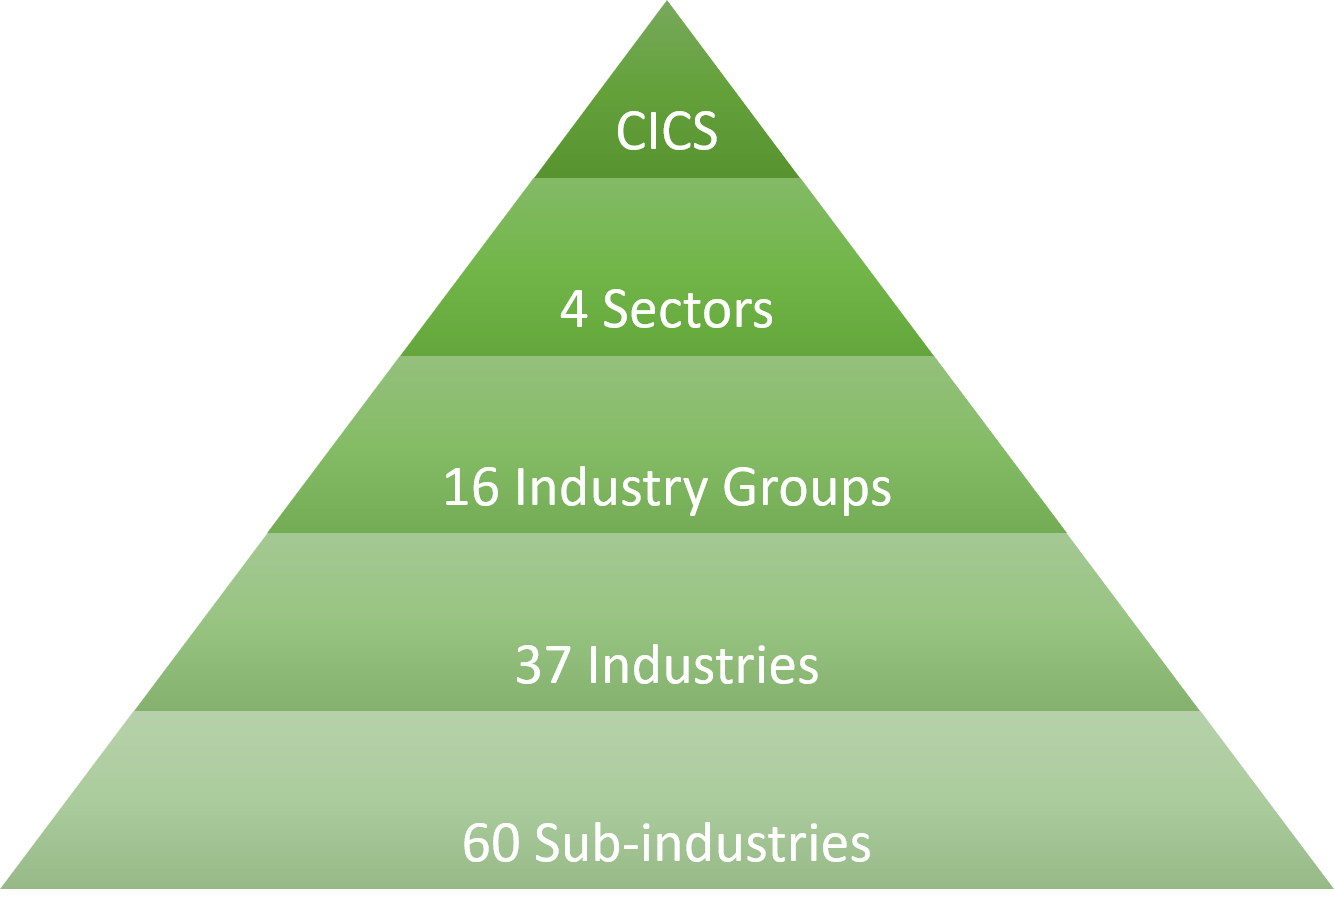
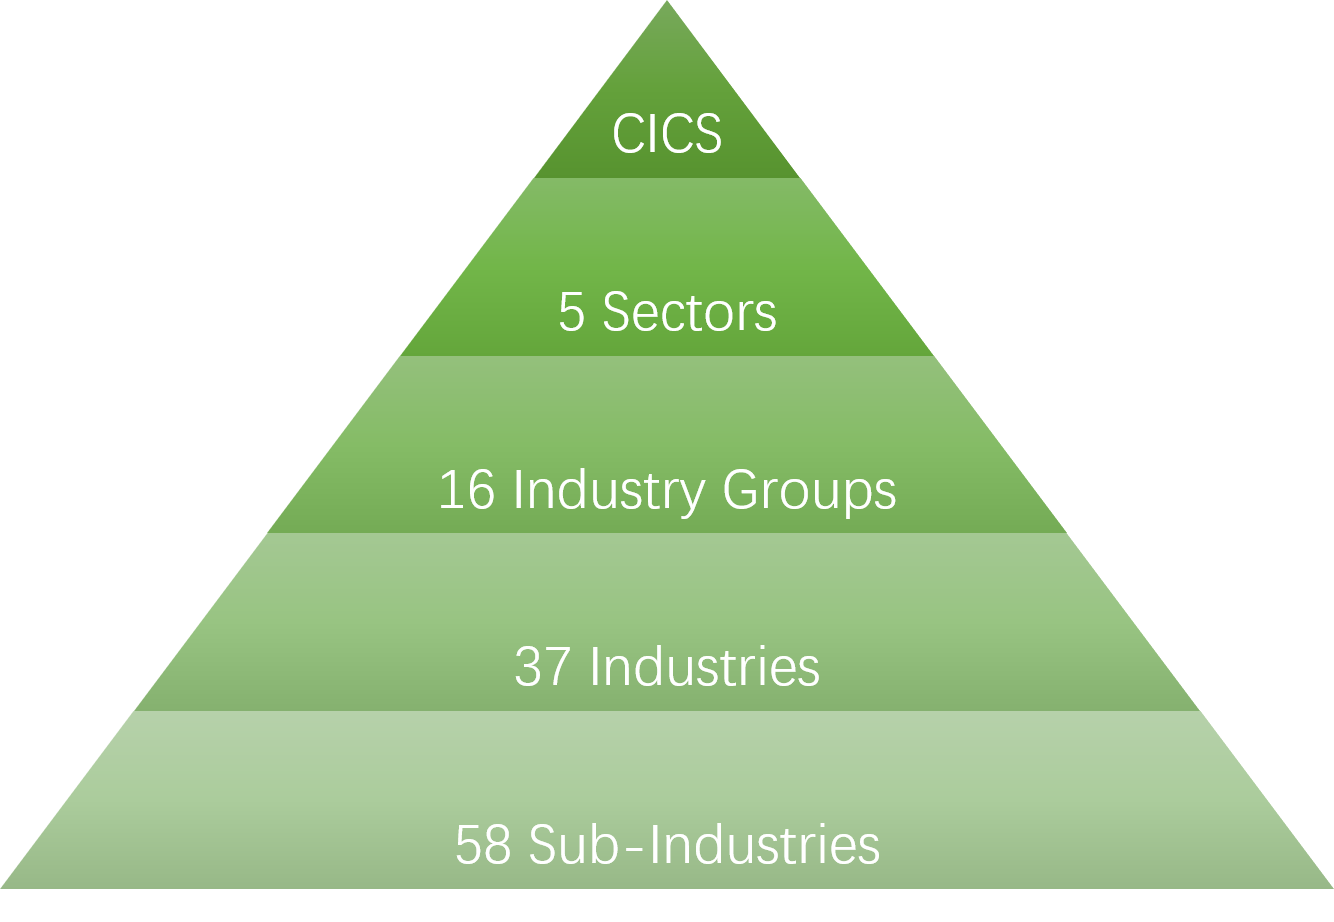
GitBook: [#129] No subject

diff --git a/sub-industry-definitions/identity-and-social-relationship-sector/identity-industry-group.md b/sub-industry-definitions/identity-and-social-relationship-sector/identity-industry-group.md
@@ -10,13 +10,13 @@ The Decentralized Identity Industry comprises companies, organizations, and proj
 
 ### Decentralized Identity (Sub-Industry)
 
-Companies, organizations, and projects engaged in providing technologies and products of decentralized identity.
+Companies, organizations, and projects engaged in providing technologies and products of decentralized identity, including DID protocols and tools.
 
-> Decentralized identity is a self-owned, independent identity that enables trusted data exchange.  Decentralized identity allows people to generate, manage and control their personally identifiable information without a centralized third party like a registry, identity provider or certification authority.
+> Decentralized identity is a self-owned, independent identity that enables trusted data exchange.  It allows people to generate, manage and control their personally identifiable information without a centralized third party like a registry, identity provider or certification authority.
 
 ### Diversified Decentralized Identity Services (Sub-Industry)
 
-def
+Providers of services relating to decentralized identity, including DID platform operations.
 
 
 
@@ -28,7 +28,11 @@ The Digital Identity Industry comprises companies, organizations, and projects e
 
 ### Digital Identity (Sub-Industry)
 
-def
+Companies, organizations, and projects engaged in developing digital identity technologies, delivering products, and providing services based on digital identity technologies.
+
+> A digital identity is _information used by computer systems to represent an external agent – a person, organization, application, or device_.
+
+
 
 
 
@@ -38,11 +42,13 @@ The Reputation Industry comprises companies, organizations, and projects engaged
 
 ### Reputation Services (Sub-Industry)
 
-def
+Companies, organizations, and projects engaged in delivering products and providing services about reputation in the crypto universe.
 
 ### Credit Services (Sub-Industry)
 
-def
+Companies, organizations, and projects engaged in delivering products and providing services about credits in the crypto universe that is related to reputation.
+
+
 
 
 
@@ -52,8 +58,8 @@ The Diversified Identity Services comprises companies, organizations, and projec
 
 ### Identity Analysis Services (Sub-Industry)
 
-def
+Companies, organizations, and projects engaged in delivering products and providing services of identity analysis for digital identity and decentralized identity.
 
 ### Identity Privacy Services (Sub-Industry)
 
-def\
+Companies, organizations, and projects engaged in delivering products and providing services of identity privacy for digital identity and decentralized identity.\

diff --git a/sub-industry-definitions/blockchain-sector/README.md b/sub-industry-definitions/blockchain-sector/README.md
@@ -7,7 +7,7 @@ The Blockchain Sector comprises companies, organizations, and projects engaged i
 | Blockchain Infrastructure (4)       | Smart Contract Protocols (5) | [Layer 0](blockchain-infrastructure-industry-group.md#layer-0-sub-industry)                                       |
 |                                     |                              | [Layer 1](blockchain-infrastructure-industry-group.md#layer-1-sub-industry)                                       |
 |                                     |                              | [Layer 2](blockchain-infrastructure-industry-group.md#layer-2-sub-industry)                                       |
-|                                     |                              | [Layer 3](blockchain-infrastructure-industry-group.md#layer-3-sub-industry)                                       |
+|                                     |                              | [Layer 3+](blockchain-infrastructure-industry-group.md#layer-3+-sub-industry)                                     |
 |                                     |                              | [Bridge](blockchain-infrastructure-industry-group.md#bridge-sub-industry)                                         |
 |                                     | Computing (1)                | [Computing Protocols](blockchain-infrastructure-industry-group.md#computing-protocols-sub-industry)               |
 |                                     | Storage (1)                  | [Storage Protocols](blockchain-infrastructure-industry-group.md#storage-protocols-sub-industry)                   |

diff --git a/sub-industry-definitions/identity-and-social-relationship-sector/README.md b/sub-industry-definitions/identity-and-social-relationship-sector/README.md
@@ -4,7 +4,7 @@ The Identity & Social Relationship Sector comprises companies, organizations, an
 
 | Industry Group           | Industry                          | Sub-industry                                                                                                                       |
 | ------------------------ | --------------------------------- | ---------------------------------------------------------------------------------------------------------------------------------- |
-| Identity (4)             | Decentralized Identity (2)        | [Decentralized Identity Protocols](identity-industry-group.md#decentralized-identity-sub-industry)                                 |
+| Identity (4)             | Decentralized Identity (2)        | [Decentralized Identity](identity-industry-group.md#decentralized-identity-sub-industry)                                           |
 |                          |                                   | [Diversified Decentralized Identity Services](identity-industry-group.md#diversified-decentralized-identity-services-sub-industry) |
 |                          | Digital Identity (1)              | [Digital Identity](identity-industry-group.md#digital-identity-sub-industry)                                                       |
 |                          | Reputation (2)                    | [Reputation Services](identity-industry-group.md#reputation-services-sub-industry)                                                 |

diff --git a/README.md b/README.md
@@ -1,8 +1,7 @@
 # Introduction
 
-Crypto Industry Classification Standard (CICS) is a classification standard focused on the crypto universe. CICS is a four-tiered, hierarchical industry classification system. It comprises 5 sectors, 16 industry groups, 37 industries, and 60 sub-industries.
+Crypto Industry Classification Standard (CICS) is a classification standard focused on the crypto universe. CICS is a four-tiered, hierarchical industry classification system. It comprises 5 Sectors, 16 Industry Groups, 37 Industries, and 58 Sub-Industries.
 
-<figure><img src=".gitbook/assets/CICS piramid (3).png" alt=""><figcaption></figcaption></figure>
+<figure><img src=".gitbook/assets/CICS piramid (2).png" alt=""><figcaption><p>Hierarchical structure of CICS.</p></figcaption></figure>
 
 The CICS methodology is considered a crypto industry analytical framework for industry research, investment analysis, portfolio management, and asset allocation. Companies are classified qualitatively due to the current lack of quantitative data in the crypto universe. As the crypto universe develops, quantitive data will become a critical factor for the classification methodology and be used accordingly. Each company or project is assigned a single CICS classification at the sub-industry level according to its principal business activity.&#x20;
-

diff --git a/sub-industry-definitions/culture-sector/sociality-industry-group.md b/sub-industry-definitions/culture-sector/sociality-industry-group.md
@@ -10,7 +10,11 @@ The Meme Industry comprises companies, organizations, and projects engaged in me
 
 ### Meme (Sub-Industry)
 
-def
+Companies, organizations, and projects engaged in providing technologies and products, and services relating to Meme.
+
+> A meme is an idea, behavior, or style that spreads by means of imitation from person to person within a culture and often carries symbolic meaning representing a particular phenomenon or theme.
+
+
 
 
 
@@ -20,8 +24,10 @@ The DAO Industry comprises companies, organizations, and projects engaged in DAO
 
 ### DAO (Sub-Industry)
 
-def
+Companies, organizations, and projects engaged in providing DAO protocols and organized and operated as a DAO with no utility involved.
+
+> A decentralized autonomous organization (DAO) is an organization constructed by rules encoded as a computer program that is often transparent, controlled by the organization's members and not influenced by a central government.
 
 ### Utility DAO (Sub-Industry)
 
-def
+Companies, organizations, and projects that are organized and operated as a DAO with specific utility, including philanthropy, investment & venture, grant, collector, media, and social DAO.

diff --git a/sub-industry-definitions/culture-sector/entertainment-industry-group.md b/sub-industry-definitions/culture-sector/entertainment-industry-group.md
@@ -10,12 +10,14 @@ The Metaverse Industry comprises companies, organizations, and projects engaged 
 
 ### Metaverse (Sub-Industry)
 
-def
+Companies, organizations, and projects engaged in providing technologies and products, and services relating to metaverse, excluding gaming metaverse.
 
 ### Blockchain Gaming (Sub-Industry)
 
-def
+Companies, organizations, and projects engaged in providing technologies and products, and services relating to blockchain gaming.
+
+> Blockchain gaming is the game that fully or particial operate on blockchain, or which virtual items and assets are managed on blockchain.
 
 ### Metaverse Platforms & Services (Sub-Industry)
 
-def
+Companies, organizations, and projects that provide technical or other services for the metaverse sub-industry.

diff --git a/sub-industry-definitions/culture-sector/art-industry-group.md b/sub-industry-definitions/culture-sector/art-industry-group.md
@@ -1,17 +1,13 @@
 # Art (Industry Group)
 
-The Art Industry Group contains companies, organizations, and projects involved in art.
+The Art Industry Group contains companies, organizations, and projects involved in creative art.
 
 
 
-## Art (Industry)
+## Creative Art (Industry)
 
-The Art Industry comprises companies, organizations, and projects engaged in human-being art and AI art.
+The Art Industry comprises companies, organizations, and projects engaged in creative art.
 
-### Human-being Art (Sub-Industry)
+### Creative Art (Sub-Industry)
 
-def
-
-### AI Art (Sub-Industry)
-
-def
+Companies, organizations, and projects engaged in delivering creative art products and providing creative art platforms using decentralized technologies.&#x20;
